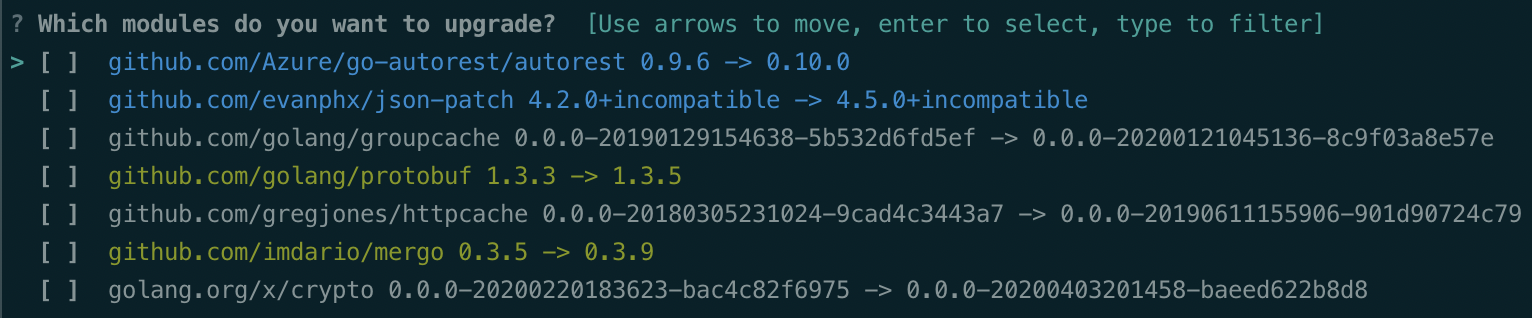
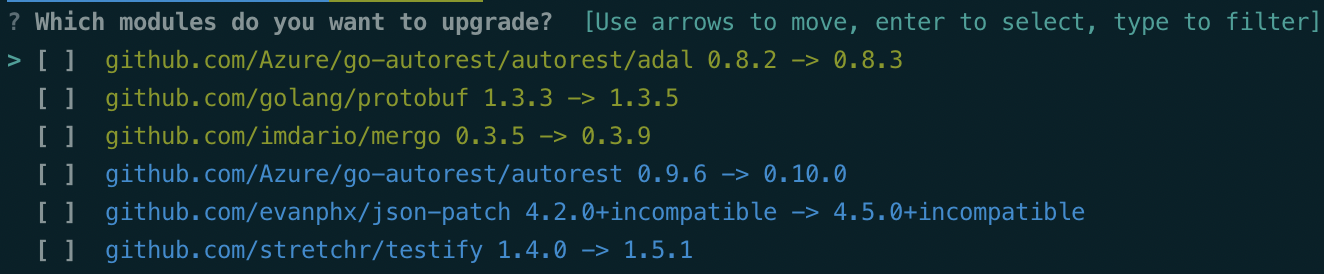
feat: group select options by upgrade type (#10)

Changed region(s): [[0.0, 0.146, 1.0, 0.8175], [0.0, 0.0, 1.0, 0.146], [0.0, 0.8759, 0.898, 0.9635]]

diff --git a/prompter_test.go b/prompter_test.go
@@ -7,26 +7,58 @@ import (
 	"github.com/stretchr/testify/assert"
 )
 
-func Test_CreateSelectOptions(t *testing.T) {
+func Test_CreateSelectOptionsColoursPatch(t *testing.T) {
 	modules := []Module{
-		{
-			Name:         "foo/bar",
-			FromVersion:  semver.MustParse("0.0.1"),
-			ToVersion:    semver.MustParse("0.0.2"),
-			MinorUpgrade: true,
-		},
 		{
 			Name:         "frasercobb/gomo",
 			FromVersion:  semver.MustParse("1.2.3"),
-			ToVersion:    semver.MustParse("1.3.4"),
+			ToVersion:    semver.MustParse("1.2.4"),
 			PatchUpgrade: true,
 		},
 	}
 	result := createSelectOptions(modules)
 
 	assert.Equal(t, []string{
-		"\x1b[34mfoo/bar 0.0.1 -> 0.0.2\x1b[0m",
-		"\x1b[32mfrasercobb/gomo 1.2.3 -> 1.3.4\x1b[0m",
+		"\x1b[32mfrasercobb/gomo 1.2.3 -> 1.2.4\x1b[0m",
+	}, result)
+}
+
+func Test_CreateSelectOptionsColoursMinor(t *testing.T) {
+	modules := []Module{
+		{
+			Name:         "foo/bar",
+			FromVersion:  semver.MustParse("0.1.0"),
+			ToVersion:    semver.MustParse("0.2.0"),
+			MinorUpgrade: true,
+		},
+	}
+	result := createSelectOptions(modules)
+
+	assert.Equal(t, []string{
+		"\x1b[34mfoo/bar 0.1.0 -> 0.2.0\x1b[0m",
+	}, result)
+}
+
+func Test_CreateSelectOptionsGroupsByUpgradeType(t *testing.T) {
+	modules := []Module{
+		{
+			Name:         "minor/upgrade",
+			FromVersion:  semver.MustParse("0.1.1"),
+			ToVersion:    semver.MustParse("0.2.1"),
+			MinorUpgrade: true,
+		},
+		{
+			Name:         "patch/upgrade",
+			FromVersion:  semver.MustParse("0.0.1"),
+			ToVersion:    semver.MustParse("0.0.2"),
+			PatchUpgrade: true,
+		},
+	}
+	result := createSelectOptions(modules)
+
+	assert.Equal(t, []string{
+		"\x1b[32mpatch/upgrade 0.0.1 -> 0.0.2\x1b[0m",
+		"\x1b[34mminor/upgrade 0.1.1 -> 0.2.1\x1b[0m",
 	}, result)
 }
 

diff --git a/discoverer_test.go b/discoverer_test.go
@@ -150,15 +150,16 @@ func Test_ParseModulesReturnsErrorWhenToVersionIsNotAValidSemver(t *testing.T) {
 func Test_ParseModulesReturnsExpectedModules(t *testing.T) {
 	wantModules := []Module{
 		{
-			Name:         "a-major-upgrade",
-			FromVersion:  semver.MustParse("1.0.0"),
-			ToVersion:    semver.MustParse("2.0.0"),
-			PatchUpgrade: false,
-		},
-		{
 			Name:         "a-minor-upgrade",
 			FromVersion:  semver.MustParse("1.0.0"),
 			ToVersion:    semver.MustParse("1.1.0"),
+			MinorUpgrade: true,
+		},
+		{
+			Name:         "a-minor-upgrade-with-patch-upgrade",
+			FromVersion:  semver.MustParse("1.0.0"),
+			ToVersion:    semver.MustParse("1.1.1"),
+			PatchUpgrade: false,
 			MinorUpgrade: true,
 		},
 		{
@@ -195,7 +196,7 @@ func Test_ParseModulesSkipsEmptyModuleLines(t *testing.T) {
 			ToVersion:   semver.MustParse("3.0.0"),
 		},
 	}
-	mockExecutor := MockExecutor{}
+	var mockExecutor MockExecutor
 	d := NewDiscoverer(
 		WithExecutor(&mockExecutor),
 	)

diff --git a/prompter.go b/prompter.go
@@ -35,11 +35,26 @@ func (p *Prompter) AskForUpgrades(modules []Module) ([]Module, error) {
 }
 
 func createSelectOptions(modules []Module) []string {
-	color.NoColor = false
+	color.NoColor = false // https://github.com/golang/go/issues/18153
+	var minorUpgrades []Module
+	var patchUpgrades []Module
+	for _, m := range modules {
+		if m.MinorUpgrade {
+			minorUpgrades = append(minorUpgrades, m)
+		}
+		if m.PatchUpgrade {
+			patchUpgrades = append(patchUpgrades, m)
+		}
+	}
+
 	var result []string
-	for _, mod := range modules {
+	for _, mod := range patchUpgrades {
 		result = append(result, moduleToSelectPrompt(mod))
 	}
+	for _, mod := range minorUpgrades {
+		result = append(result, moduleToSelectPrompt(mod))
+	}
+
 	return result
 }
 

diff --git a/discoverer.go b/discoverer.go
@@ -220,11 +220,17 @@ func extractModule(moduleLine string, regex *regexp.Regexp) (Module, error) {
 		return Module{}, fmt.Errorf("parsing to version %q: %w", to, err)
 	}
 
-	return Module{
+	module := Module{
 		Name:         matches[1],
 		FromVersion:  from,
 		ToVersion:    to,
 		PatchUpgrade: to.Patch() > from.Patch(),
 		MinorUpgrade: to.Minor() > from.Minor(),
-	}, nil
+	}
+
+	if module.MinorUpgrade {
+		module.PatchUpgrade = false
+	}
+
+	return module, nil
 }
